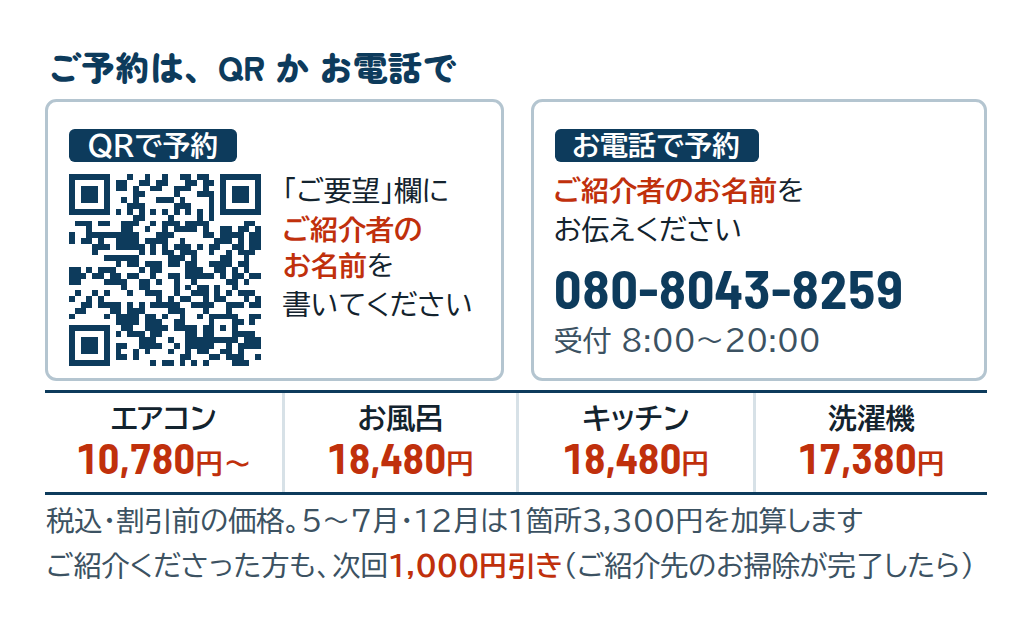
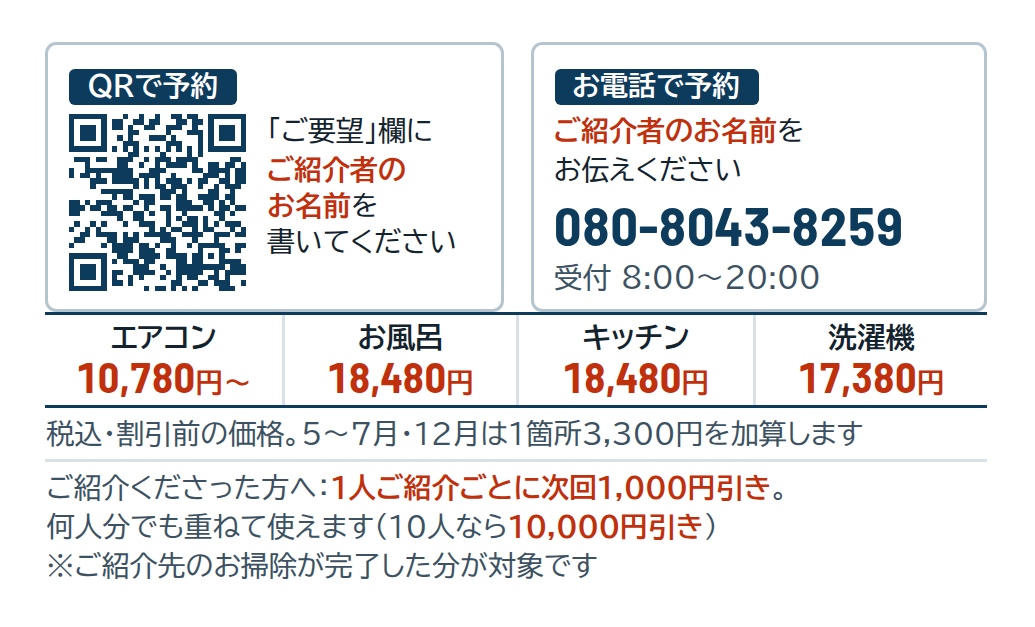
紹介カードD：赤帯の文字を上下中央に、紹介した方の割引は人数分重ねて使える旨を追記
- 赤帯 12.4→14mm、文字を下げて中央に
- 裏に「1人ご紹介ごとに次回1,000円引き。何人分でも重ねて使えます（10人なら10,000円引き）」
- prices.json・price-master に上限なしを記録（オーナー決定 10/3）

Claude-Session: https://claude.ai/code/session_01BfM6Am6neQsPdbrjtSZMy4

Changed region(s): [[0.0309, 0.0606, 0.9585, 0.9394]]

diff --git a/print/an/card-d.html b/print/an/card-d.html
@@ -15,6 +15,7 @@ mark { background:linear-gradient(transparent 58%,#FFE566 58%); color:inherit; p
 .qr img { display:block; image-rendering:pixelated; }
 
 .safe { position:absolute; inset:3.6mm 4mm 3.6mm 4mm; display:flex; flex-direction:column; }
+.safe > * { flex-shrink:0; }
 .bgc { position:absolute; inset:0; background:#fff; }
 .top { display:flex; justify-content:space-between; align-items:center; color:#0D3B5C; font-size:7pt; font-weight:700; white-space:nowrap; }
 .top b { font-family:"Barlow Semi Condensed",sans-serif; font-size:9.6pt; letter-spacing:.12em; }
@@ -41,7 +42,7 @@ mark { background:linear-gradient(transparent 58%,#FFE566 58%); color:inherit; p
 .t-omote .from i { flex:0 0 36mm; border-bottom:.3mm solid #13232E; height:5mm; }
 
 /* 案D：ご紹介です。主役は「誰からの紹介か」。手渡しの物として、名前の欄をいちばん大きく */
-.m-omote .band { position:absolute; left:0; right:0; bottom:0; height:15.4mm; background:#B72C0A; }
+.m-omote .band { position:absolute; left:0; right:0; bottom:0; height:17mm; background:#B72C0A; }
 .m-omote .from { display:flex; align-items:flex-end; gap:1.6mm; margin-top:auto; }
 .m-omote .from i { flex:0 0 33mm; border-bottom:.35mm solid #0D3B5C; height:8mm; }
 .m-omote .from span { font-size:11.4pt; font-weight:900; color:#0D3B5C; white-space:nowrap; }
@@ -49,7 +50,8 @@ mark { background:linear-gradient(transparent 58%,#FFE566 58%); color:inherit; p
 .m-omote .row2 { display:flex; justify-content:space-between; align-items:flex-end; margin-top:auto; margin-bottom:auto; }
 .m-omote .star { font-size:7pt; line-height:1.35; color:#3C5262; text-align:right; }
 .m-omote .star b { font-size:10pt; color:#0D3B5C; }
-.m-omote .offer { margin-top:auto; line-height:1; padding-bottom:.6mm; color:#fff; display:flex; align-items:baseline; gap:1.6mm; white-space:nowrap; }
+.m-omote .safe { bottom:3.1mm; }   /* 赤帯の中で文字を上下中央に（10/3 オーナー「上に寄ってる」） */
+.m-omote .offer { margin-top:auto; line-height:1; padding-bottom:0; color:#fff; display:flex; align-items:baseline; gap:1.6mm; white-space:nowrap; }
 .m-omote .offer span { font-size:7.6pt; font-weight:700; }
 .m-omote .offer b { font-size:20pt; line-height:1; }
 .m-omote .offer .kigen { font-style:normal; margin-left:auto; font-size:7pt; font-weight:700; line-height:1.2; text-align:center; border:.3mm solid rgba(255,255,255,.8); border-radius:.6mm; padding:.6mm 1.2mm; align-self:center; }
@@ -58,23 +60,23 @@ mark { background:linear-gradient(transparent 58%,#FFE566 58%); color:inherit; p
 
 /* 裏（C・D共通）：QR と電話を左右に並べる。料金は4つの枠 */
 .k-ura h2 { font-size:8.6pt; font-weight:900; color:#0D3B5C; }
-.k-ura .two { display:grid; grid-template-columns:1fr 1fr; gap:2.4mm; margin-top:auto; }
-.k-ura .way { border:.3mm solid #B4C5D0; border-radius:1mm; padding:1.1mm 1.8mm 1.1mm; }
+.k-ura .two { display:grid; grid-template-columns:1fr 1fr; gap:2.4mm; }
+.k-ura .way { border:.3mm solid #B4C5D0; border-radius:1mm; padding:.8mm 1.8mm .8mm; }
 .k-ura .way h3 { font-size:7pt; font-weight:700; color:#fff; background:#0D3B5C; display:inline-block; padding:.3mm 1.6mm; border-radius:.5mm; }
-.k-ura .web { display:grid; grid-template-columns:17mm 1fr; gap:1.8mm; align-items:start; margin-top:1mm; }
-.k-ura .web img { width:17mm; height:17mm; }
-.k-ura .way p { font-size:7pt; line-height:1.35; color:#13232E; }
+.k-ura .web { display:grid; grid-template-columns:15.6mm 1fr; gap:1.8mm; align-items:start; margin-top:1mm; }
+.k-ura .web img { width:15.6mm; height:15.6mm; }
+.k-ura .way p { font-size:7pt; line-height:1.3; color:#13232E; }
 .k-ura .way p b { color:#C0300C; }
 .k-ura .way p.tel { font-size:13.4pt; color:#0D3B5C; line-height:1; margin-top:1.2mm; white-space:nowrap; }
 .k-ura .way p.hours { font-size:7.2pt; color:#3C5262; margin-top:.6mm; }
 .k-ura .price { display:grid; grid-template-columns:repeat(4,1fr); margin-top:auto; border-top:.3mm solid #0D3B5C; border-bottom:.3mm solid #0D3B5C; }
-.k-ura .price div { text-align:center; padding:1.1mm 0 1mm; border-left:.2mm solid #D7E1E7; }
+.k-ura .price div { text-align:center; padding:.7mm 0 .6mm; border-left:.2mm solid #D7E1E7; }
 .k-ura .price div:first-child { border-left:0; }
 .k-ura .price div > span { display:block; font-size:7.2pt; font-weight:700; color:#13232E; }
 .k-ura .price b { font-size:10.4pt; color:#C0300C; line-height:1.1; }
 .k-ura .price b .yen-u { font-size:7pt; }
-.k-ura .foot { margin-top:.4mm; display:flex; justify-content:space-between; align-items:baseline; gap:2mm; white-space:nowrap; }
-.k-ura .note { margin-top:.9mm; line-height:1.35; font-size:7pt; color:#3C5262; white-space:nowrap; }
+.k-ura .foot { margin-top:.6mm; border-top:.25mm solid #D7E1E7; padding-top:.8mm; }
+.k-ura .note { margin-top:.6mm; line-height:1.35; font-size:7pt; color:#3C5262; white-space:nowrap; }
 .k-ura .foot p { line-height:1.35; font-size:7pt; color:#3C5262; }
 .k-ura .foot p b { color:#C0300C; }
 </style></head><body><section class="page m-omote"><div class="bgc"></div><div class="band"></div><div class="trim"><div class="safe">
@@ -84,7 +86,6 @@ mark { background:linear-gradient(transparent 58%,#FFE566 58%); color:inherit; p
 <div class="row2"><div class="icons"><div class="ic"><svg viewBox="0 0 24 24" fill="none" stroke="#0D3B5C" stroke-width="1.7" stroke-linecap="round" stroke-linejoin="round"><rect x="2.5" y="5" width="19" height="9" rx="2"/><path d="M5.5 11h13"/><path d="M8 17v2.5M12 17v3.5M16 17v2.5"/></svg><span>エアコン</span></div><div class="ic"><svg viewBox="0 0 24 24" fill="none" stroke="#0D3B5C" stroke-width="1.7" stroke-linecap="round" stroke-linejoin="round"><path d="M3 12h18v1.5A5.5 5.5 0 0 1 15.5 19h-7A5.5 5.5 0 0 1 3 13.5z"/><path d="M6 12V6.5a2.2 2.2 0 0 1 4.4 0"/><path d="M7.5 19l-1 2M16.5 19l1 2"/></svg><span>お風呂</span></div><div class="ic"><svg viewBox="0 0 24 24" fill="none" stroke="#0D3B5C" stroke-width="1.7" stroke-linecap="round" stroke-linejoin="round"><path d="M3 13h18"/><path d="M5 13v2.5A3.5 3.5 0 0 0 8.5 19h7a3.5 3.5 0 0 0 3.5-3.5V13"/><path d="M12 13V7.5a3 3 0 0 1 6 0V9"/></svg><span>キッチン</span></div><div class="ic"><svg viewBox="0 0 24 24" fill="none" stroke="#0D3B5C" stroke-width="1.7" stroke-linecap="round" stroke-linejoin="round"><rect x="4" y="2.5" width="16" height="19" rx="2"/><circle cx="12" cy="13.5" r="4.6"/><path d="M7 6h2.5M15 6h2"/></svg><span>洗濯機</span></div></div><p class="star">Googleクチコミ<br><b>★5.0</b>（23件）<br>2026年9月時点</p></div>
 <p class="offer"><span>このカードで、初回のお掃除が</span><b class="num">1,000<span class="yen-u">円</span><span class="hiki">引き</span></b><em class="kigen">有効期限<br>なし</em></p>
 </div></div></section><section class="page k-ura"><div class="bgc"></div><div class="trim"><div class="safe">
-<h2 class="maru">ご予約は、QR か お電話で</h2>
 <div class="two">
   <div class="way"><h3>QRで予約</h3>
[1 lines of base64/hex data omitted]
@@ -100,5 +101,5 @@ mark { background:linear-gradient(transparent 58%,#FFE566 58%); color:inherit; p
   <div><span>洗濯機</span><b class="num">17,380<span class="yen-u">円</span></b></div>
 </div>
 <p class="note">税込・割引前の価格。5〜7月・12月は1箇所3,300円を加算します</p>
-<div class="foot"><p>ご紹介くださった方も、次回<b>1,000円引き</b>（ご紹介先のお掃除が完了したら）</p></div>
+<div class="foot"><p>ご紹介くださった方へ：<b>1人ご紹介ごとに次回1,000円引き</b>。<br>何人分でも重ねて使えます（10人なら<b>10,000円引き</b>）<br>※ご紹介先のお掃除が完了した分が対象です</p></div>
 </div></div></section></body></html>

diff --git a/print/an/card-c.html b/print/an/card-c.html
@@ -15,6 +15,7 @@ mark { background:linear-gradient(transparent 58%,#FFE566 58%); color:inherit; p
 .qr img { display:block; image-rendering:pixelated; }
 
 .safe { position:absolute; inset:3.6mm 4mm 3.6mm 4mm; display:flex; flex-direction:column; }
+.safe > * { flex-shrink:0; }
 .bgc { position:absolute; inset:0; background:#fff; }
 .top { display:flex; justify-content:space-between; align-items:center; color:#0D3B5C; font-size:7pt; font-weight:700; white-space:nowrap; }
 .top b { font-family:"Barlow Semi Condensed",sans-serif; font-size:9.6pt; letter-spacing:.12em; }
@@ -49,7 +50,8 @@ mark { background:linear-gradient(transparent 58%,#FFE566 58%); color:inherit; p
 .m-omote .row2 { display:flex; justify-content:space-between; align-items:flex-end; margin-top:auto; margin-bottom:auto; }
 .m-omote .star { font-size:7pt; line-height:1.35; color:#3C5262; text-align:right; }
 .m-omote .star b { font-size:10pt; color:#0D3B5C; }
-.m-omote .offer { margin-top:auto; line-height:1; padding-bottom:.6mm; color:#fff; display:flex; align-items:baseline; gap:1.6mm; white-space:nowrap; }
+.m-omote .safe { bottom:3.1mm; }   /* 赤帯の中で文字を上下中央に（10/3 オーナー「上に寄ってる」） */
+.m-omote .offer { margin-top:auto; line-height:1; padding-bottom:0; color:#fff; display:flex; align-items:baseline; gap:1.6mm; white-space:nowrap; }
 .m-omote .offer span { font-size:7.6pt; font-weight:700; }
 .m-omote .offer b { font-size:20pt; line-height:1; }
 .m-omote .offer .kigen { font-style:normal; margin-left:auto; font-size:7pt; font-weight:700; line-height:1.2; text-align:center; border:.3mm solid rgba(255,255,255,.8); border-radius:.6mm; padding:.6mm 1.2mm; align-self:center; }
@@ -58,23 +60,23 @@ mark { background:linear-gradient(transparent 58%,#FFE566 58%); color:inherit; p
 
 /* 裏（C・D共通）：QR と電話を左右に並べる。料金は4つの枠 */
 .k-ura h2 { font-size:8.6pt; font-weight:900; color:#0D3B5C; }
-.k-ura .two { display:grid; grid-template-columns:1fr 1fr; gap:2.4mm; margin-top:auto; }
-.k-ura .way { border:.3mm solid #B4C5D0; border-radius:1mm; padding:1.1mm 1.8mm 1.1mm; }
+.k-ura .two { display:grid; grid-template-columns:1fr 1fr; gap:2.4mm; }
+.k-ura .way { border:.3mm solid #B4C5D0; border-radius:1mm; padding:.8mm 1.8mm .8mm; }
 .k-ura .way h3 { font-size:7pt; font-weight:700; color:#fff; background:#0D3B5C; display:inline-block; padding:.3mm 1.6mm; border-radius:.5mm; }
-.k-ura .web { display:grid; grid-template-columns:17mm 1fr; gap:1.8mm; align-items:start; margin-top:1mm; }
-.k-ura .web img { width:17mm; height:17mm; }
-.k-ura .way p { font-size:7pt; line-height:1.35; color:#13232E; }
+.k-ura .web { display:grid; grid-template-columns:15.6mm 1fr; gap:1.8mm; align-items:start; margin-top:1mm; }
+.k-ura .web img { width:15.6mm; height:15.6mm; }
+.k-ura .way p { font-size:7pt; line-height:1.3; color:#13232E; }
 .k-ura .way p b { color:#C0300C; }
 .k-ura .way p.tel { font-size:13.4pt; color:#0D3B5C; line-height:1; margin-top:1.2mm; white-space:nowrap; }
 .k-ura .way p.hours { font-size:7.2pt; color:#3C5262; margin-top:.6mm; }
 .k-ura .price { display:grid; grid-template-columns:repeat(4,1fr); margin-top:auto; border-top:.3mm solid #0D3B5C; border-bottom:.3mm solid #0D3B5C; }
-.k-ura .price div { text-align:center; padding:1.1mm 0 1mm; border-left:.2mm solid #D7E1E7; }
+.k-ura .price div { text-align:center; padding:.7mm 0 .6mm; border-left:.2mm solid #D7E1E7; }
 .k-ura .price div:first-child { border-left:0; }
 .k-ura .price div > span { display:block; font-size:7.2pt; font-weight:700; color:#13232E; }
 .k-ura .price b { font-size:10.4pt; color:#C0300C; line-height:1.1; }
 .k-ura .price b .yen-u { font-size:7pt; }
-.k-ura .foot { margin-top:.4mm; display:flex; justify-content:space-between; align-items:baseline; gap:2mm; white-space:nowrap; }
-.k-ura .note { margin-top:.9mm; line-height:1.35; font-size:7pt; color:#3C5262; white-space:nowrap; }
+.k-ura .foot { margin-top:.6mm; border-top:.25mm solid #D7E1E7; padding-top:.8mm; }
+.k-ura .note { margin-top:.6mm; line-height:1.35; font-size:7pt; color:#3C5262; white-space:nowrap; }
 .k-ura .foot p { line-height:1.35; font-size:7pt; color:#3C5262; }
 .k-ura .foot p b { color:#C0300C; }
 </style></head><body><section class="page t-omote"><div class="bgc"></div><div class="trim"><div class="safe">
@@ -86,7 +88,6 @@ mark { background:linear-gradient(transparent 58%,#FFE566 58%); color:inherit; p
   <div class="icons"><div class="ic"><svg viewBox="0 0 24 24" fill="none" stroke="#0D3B5C" stroke-width="1.7" stroke-linecap="round" stroke-linejoin="round"><rect x="2.5" y="5" width="19" height="9" rx="2"/><path d="M5.5 11h13"/><path d="M8 17v2.5M12 17v3.5M16 17v2.5"/></svg><span>エアコン</span></div><div class="ic"><svg viewBox="0 0 24 24" fill="none" stroke="#0D3B5C" stroke-width="1.7" stroke-linecap="round" stroke-linejoin="round"><path d="M3 12h18v1.5A5.5 5.5 0 0 1 15.5 19h-7A5.5 5.5 0 0 1 3 13.5z"/><path d="M6 12V6.5a2.2 2.2 0 0 1 4.4 0"/><path d="M7.5 19l-1 2M16.5 19l1 2"/></svg><span>お風呂</span></div><div class="ic"><svg viewBox="0 0 24 24" fill="none" stroke="#0D3B5C" stroke-width="1.7" stroke-linecap="round" stroke-linejoin="round"><path d="M3 13h18"/><path d="M5 13v2.5A3.5 3.5 0 0 0 8.5 19h7a3.5 3.5 0 0 0 3.5-3.5V13"/><path d="M12 13V7.5a3 3 0 0 1 6 0V9"/></svg><span>キッチン</span></div><div class="ic"><svg viewBox="0 0 24 24" fill="none" stroke="#0D3B5C" stroke-width="1.7" stroke-linecap="round" stroke-linejoin="round"><rect x="4" y="2.5" width="16" height="19" rx="2"/><circle cx="12" cy="13.5" r="4.6"/><path d="M7 6h2.5M15 6h2"/></svg><span>洗濯機</span></div></div></div>
 <div class="from"><i></i><span>さんからのご紹介</span></div>
 </div></div></section><section class="page k-ura"><div class="bgc"></div><div class="trim"><div class="safe">
-<h2 class="maru">ご予約は、QR か お電話で</h2>
 <div class="two">
   <div class="way"><h3>QRで予約</h3>
[1 lines of base64/hex data omitted]
@@ -102,5 +103,5 @@ mark { background:linear-gradient(transparent 58%,#FFE566 58%); color:inherit; p
   <div><span>洗濯機</span><b class="num">17,380<span class="yen-u">円</span></b></div>
 </div>
 <p class="note">税込・割引前の価格。5〜7月・12月は1箇所3,300円を加算します</p>
-<div class="foot"><p>ご紹介くださった方も、次回<b>1,000円引き</b>（ご紹介先のお掃除が完了したら）</p></div>
+<div class="foot"><p>ご紹介くださった方へ：<b>1人ご紹介ごとに次回1,000円引き</b>。<br>何人分でも重ねて使えます（10人なら<b>10,000円引き</b>）<br>※ご紹介先のお掃除が完了した分が対象です</p></div>
 </div></div></section></body></html>

diff --git a/tools/make-print-an.py b/tools/make-print-an.py
@@ -648,6 +648,7 @@ def icons(color):
 
 CSS_CARD = """
 .safe {{ position:absolute; inset:3.6mm 4mm 3.6mm 4mm; display:flex; flex-direction:column; }}
+.safe > * {{ flex-shrink:0; }}
 .bgc {{ position:absolute; inset:0; background:#fff; }}
 .top {{ display:flex; justify-content:space-between; align-items:center; color:{ink}; font-size:7pt; font-weight:700; white-space:nowrap; }}
 .top b {{ font-family:"Barlow Semi Condensed",sans-serif; font-size:9.6pt; letter-spacing:.12em; }}
@@ -682,7 +683,8 @@ CSS_CARD = """
 .m-omote .row2 {{ display:flex; justify-content:space-between; align-items:flex-end; margin-top:auto; margin-bottom:auto; }}
 .m-omote .star {{ font-size:7pt; line-height:1.35; color:{text2}; text-align:right; }}
 .m-omote .star b {{ font-size:10pt; color:{ink}; }}
-.m-omote .offer {{ margin-top:auto; line-height:1; padding-bottom:.6mm; color:#fff; display:flex; align-items:baseline; gap:1.6mm; white-space:nowrap; }}
+.m-omote .safe {{ bottom:3.1mm; }}   /* 赤帯の中で文字を上下中央に（10/3 オーナー「上に寄ってる」） */
+.m-omote .offer {{ margin-top:auto; line-height:1; padding-bottom:0; color:#fff; display:flex; align-items:baseline; gap:1.6mm; white-space:nowrap; }}
 .m-omote .offer span {{ font-size:7.6pt; font-weight:700; }}
 .m-omote .offer b {{ font-size:20pt; line-height:1; }}
 .m-omote .offer .kigen {{ font-style:normal; margin-left:auto; font-size:7pt; font-weight:700; line-height:1.2; text-align:center; border:.3mm solid rgba(255,255,255,.8); border-radius:.6mm; padding:.6mm 1.2mm; align-self:center; }}
@@ -691,23 +693,23 @@ CSS_CARD = """
 
 /* 裏（C・D共通）：QR と電話を左右に並べる。料金は4つの枠 */
 .k-ura h2 {{ font-size:8.6pt; font-weight:900; color:{ink}; }}
-.k-ura .two {{ display:grid; grid-template-columns:1fr 1fr; gap:2.4mm; margin-top:auto; }}
-.k-ura .way {{ border:.3mm solid {rule2}; border-radius:1mm; padding:1.1mm 1.8mm 1.1mm; }}
+.k-ura .two {{ display:grid; grid-template-columns:1fr 1fr; gap:2.4mm; }}
+.k-ura .way {{ border:.3mm solid {rule2}; border-radius:1mm; padding:.8mm 1.8mm .8mm; }}
 .k-ura .way h3 {{ font-size:7pt; font-weight:700; color:#fff; background:{ink}; display:inline-block; padding:.3mm 1.6mm; border-radius:.5mm; }}
-.k-ura .web {{ display:grid; grid-template-columns:17mm 1fr; gap:1.8mm; align-items:start; margin-top:1mm; }}
-.k-ura .web img {{ width:17mm; height:17mm; }}
-.k-ura .way p {{ font-size:7pt; line-height:1.35; color:{text}; }}
+.k-ura .web {{ display:grid; grid-template-columns:15.6mm 1fr; gap:1.8mm; align-items:start; margin-top:1mm; }}
+.k-ura .web img {{ width:15.6mm; height:15.6mm; }}
+.k-ura .way p {{ font-size:7pt; line-height:1.3; color:{text}; }}
 .k-ura .way p b {{ color:{cta}; }}
 .k-ura .way p.tel {{ font-size:13.4pt; color:{ink}; line-height:1; margin-top:1.2mm; white-space:nowrap; }}
 .k-ura .way p.hours {{ font-size:7.2pt; color:{text2}; margin-top:.6mm; }}
 .k-ura .price {{ display:grid; grid-template-columns:repeat(4,1fr); margin-top:auto; border-top:.3mm solid {ink}; border-bottom:.3mm solid {ink}; }}
-.k-ura .price div {{ text-align:center; padding:1.1mm 0 1mm; border-left:.2mm solid {rule}; }}
+.k-ura .price div {{ text-align:center; padding:.7mm 0 .6mm; border-left:.2mm solid {rule}; }}
 .k-ura .price div:first-child {{ border-left:0; }}
 .k-ura .price div > span {{ display:block; font-size:7.2pt; font-weight:700; color:{text}; }}
 .k-ura .price b {{ font-size:10.4pt; color:{cta}; line-height:1.1; }}
 .k-ura .price b .yen-u {{ font-size:7pt; }}
-.k-ura .foot {{ margin-top:.4mm; display:flex; justify-content:space-between; align-items:baseline; gap:2mm; white-space:nowrap; }}
-.k-ura .note {{ margin-top:.9mm; line-height:1.35; font-size:7pt; color:{text2}; white-space:nowrap; }}
+.k-ura .foot {{ margin-top:.6mm; border-top:.25mm solid {rule}; padding-top:.8mm; }}
+.k-ura .note {{ margin-top:.6mm; line-height:1.35; font-size:7pt; color:{text2}; white-space:nowrap; }}
 .k-ura .foot p {{ line-height:1.35; font-size:7pt; color:{text2}; }}
 .k-ura .foot p b {{ color:{cta}; }}
 """
@@ -715,7 +717,6 @@ CSS_CARD = """
 
 def card_ura(p, cid):
     return f"""
-<h2 class="maru">ご予約は、QR か お電話で</h2>
 <div class="two">
   <div class="way"><h3>QRで予約</h3>
     <div class="web"><div class="qr"><img src="{qr('shokai', cid)}" alt=""></div>
@@ -731,7 +732,7 @@ def card_ura(p, cid):
   <div><span>洗濯機</span><b class="num">{p['wash']}<span class="yen-u">円</span></b></div>
 </div>
 <p class="note">税込・割引前の価格。5〜7月・12月は1箇所{p['hanbo']}円を加算します</p>
-<div class="foot"><p>ご紹介くださった方も、次回<b>{p['shokai_moto']}円引き</b>（ご紹介先のお掃除が完了したら）</p></div>
+<div class="foot"><p>ご紹介くださった方へ：<b>1人ご紹介ごとに次回{p['shokai_moto']}円引き</b>。<br>何人分でも重ねて使えます（10人なら<b>{yen(int(p['shokai_moto'].replace(',',''))*10)}円引き</b>）<br>※ご紹介先のお掃除が完了した分が対象です</p></div>
 """
 
 
@@ -752,7 +753,7 @@ def card_c(p):
 
 
 def card_d(p):
-    bandh = 12.4 + BLEED
+    bandh = 14 + BLEED
     omote = f"""
 <div class="top"><b>ONE HITTER</b><span>ハウスクリーニング・東京／千葉／神奈川</span></div>
 <div class="from"><i></i><span>さんからの、ご紹介です。</span></div>

diff --git a/docs/price-master.md b/docs/price-master.md
@@ -125,7 +125,7 @@ LP案Bのシミュレーターを実装している。
 
 | 紹介元 | 還元 |
 |---|---|
-| **消費者 → 消費者**（お客様がお友達を紹介） | **一律 1,000円**（紹介した本人の次回料金から割引。**紹介先の方の施工が完了した場合**。有効期限なし。2026-10-03 オーナー決定） |
+| **消費者 → 消費者**（お客様がお友達を紹介） | **一律 1,000円**（紹介した本人の次回料金から割引。**紹介先1人につき1,000円、人数の上限なし・重ねて使える**（10人なら10,000円）。**紹介先の方の施工が完了した場合**。有効期限なし。2026-10-03 オーナー決定） |
 | **紹介された方**（消費者 → 消費者の紹介で申し込んだ方） | **初回 1,000円割引**（予約時に紹介者の名前を伝える。2026-09-27 オーナー決定。有効期限なし：2026-10-03） |
 | **事業者 → 顧客**（提携先が顧客を紹介） | **5〜15%、原則12%** |
 
